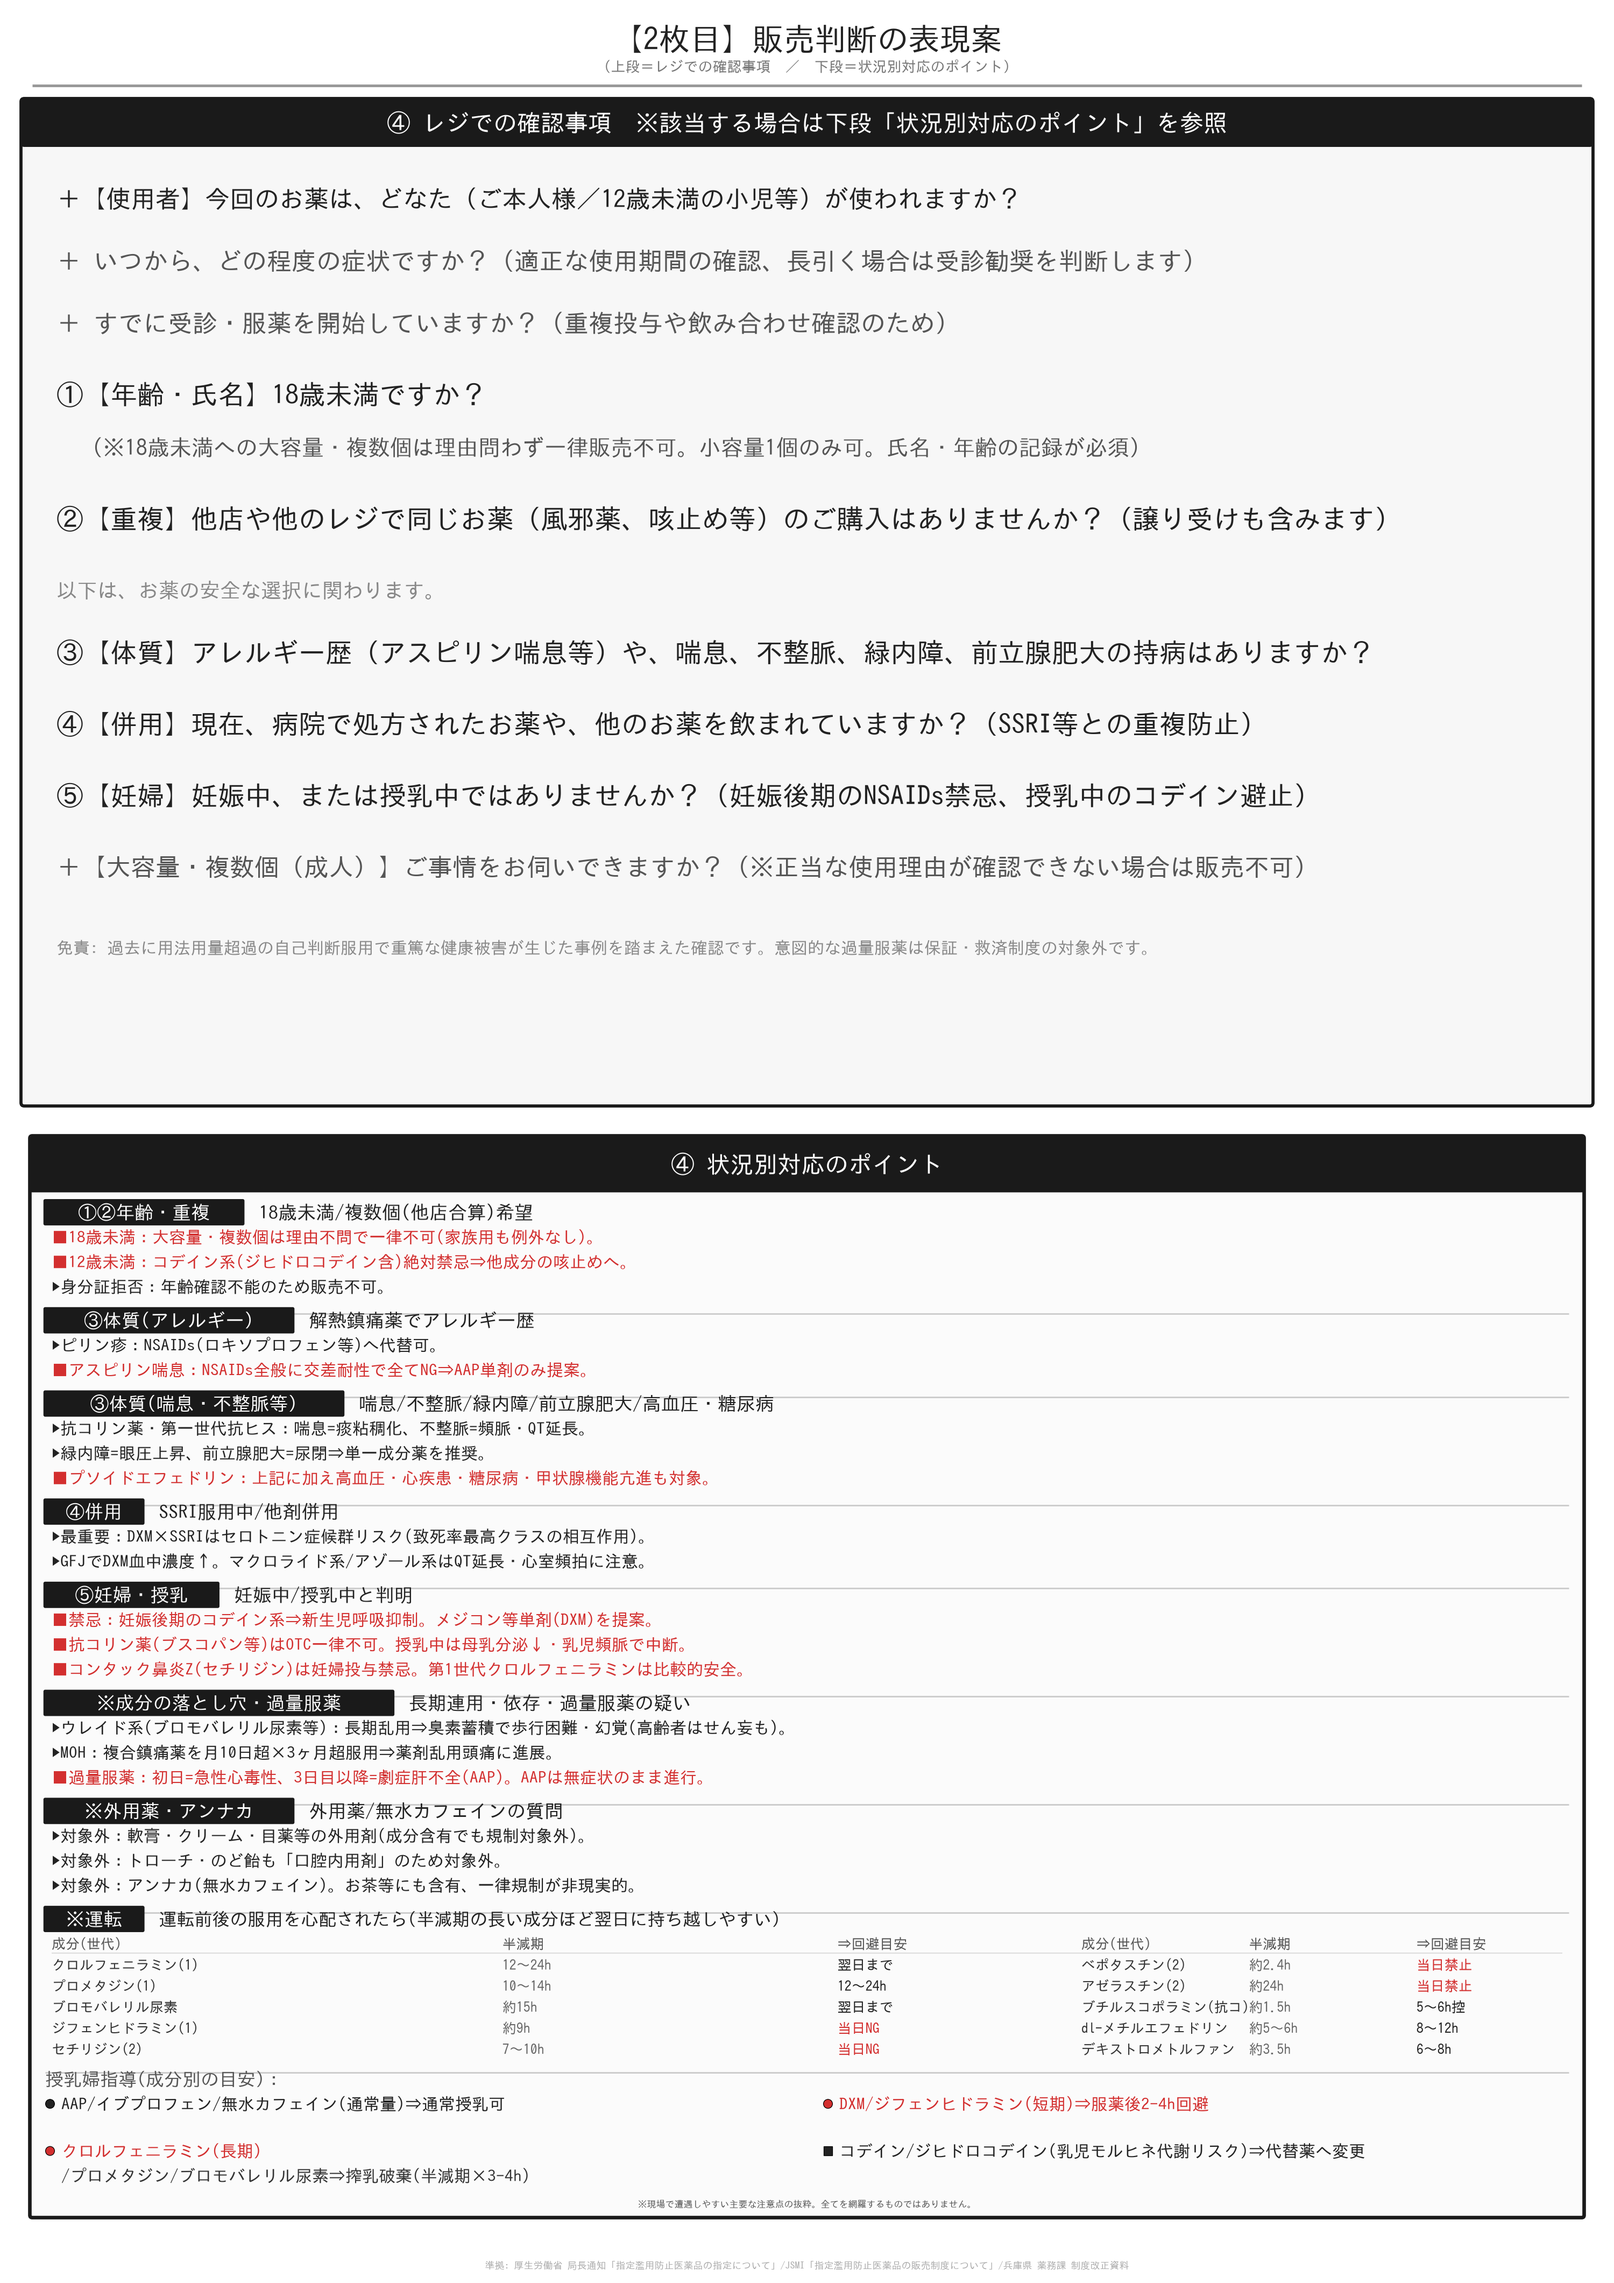
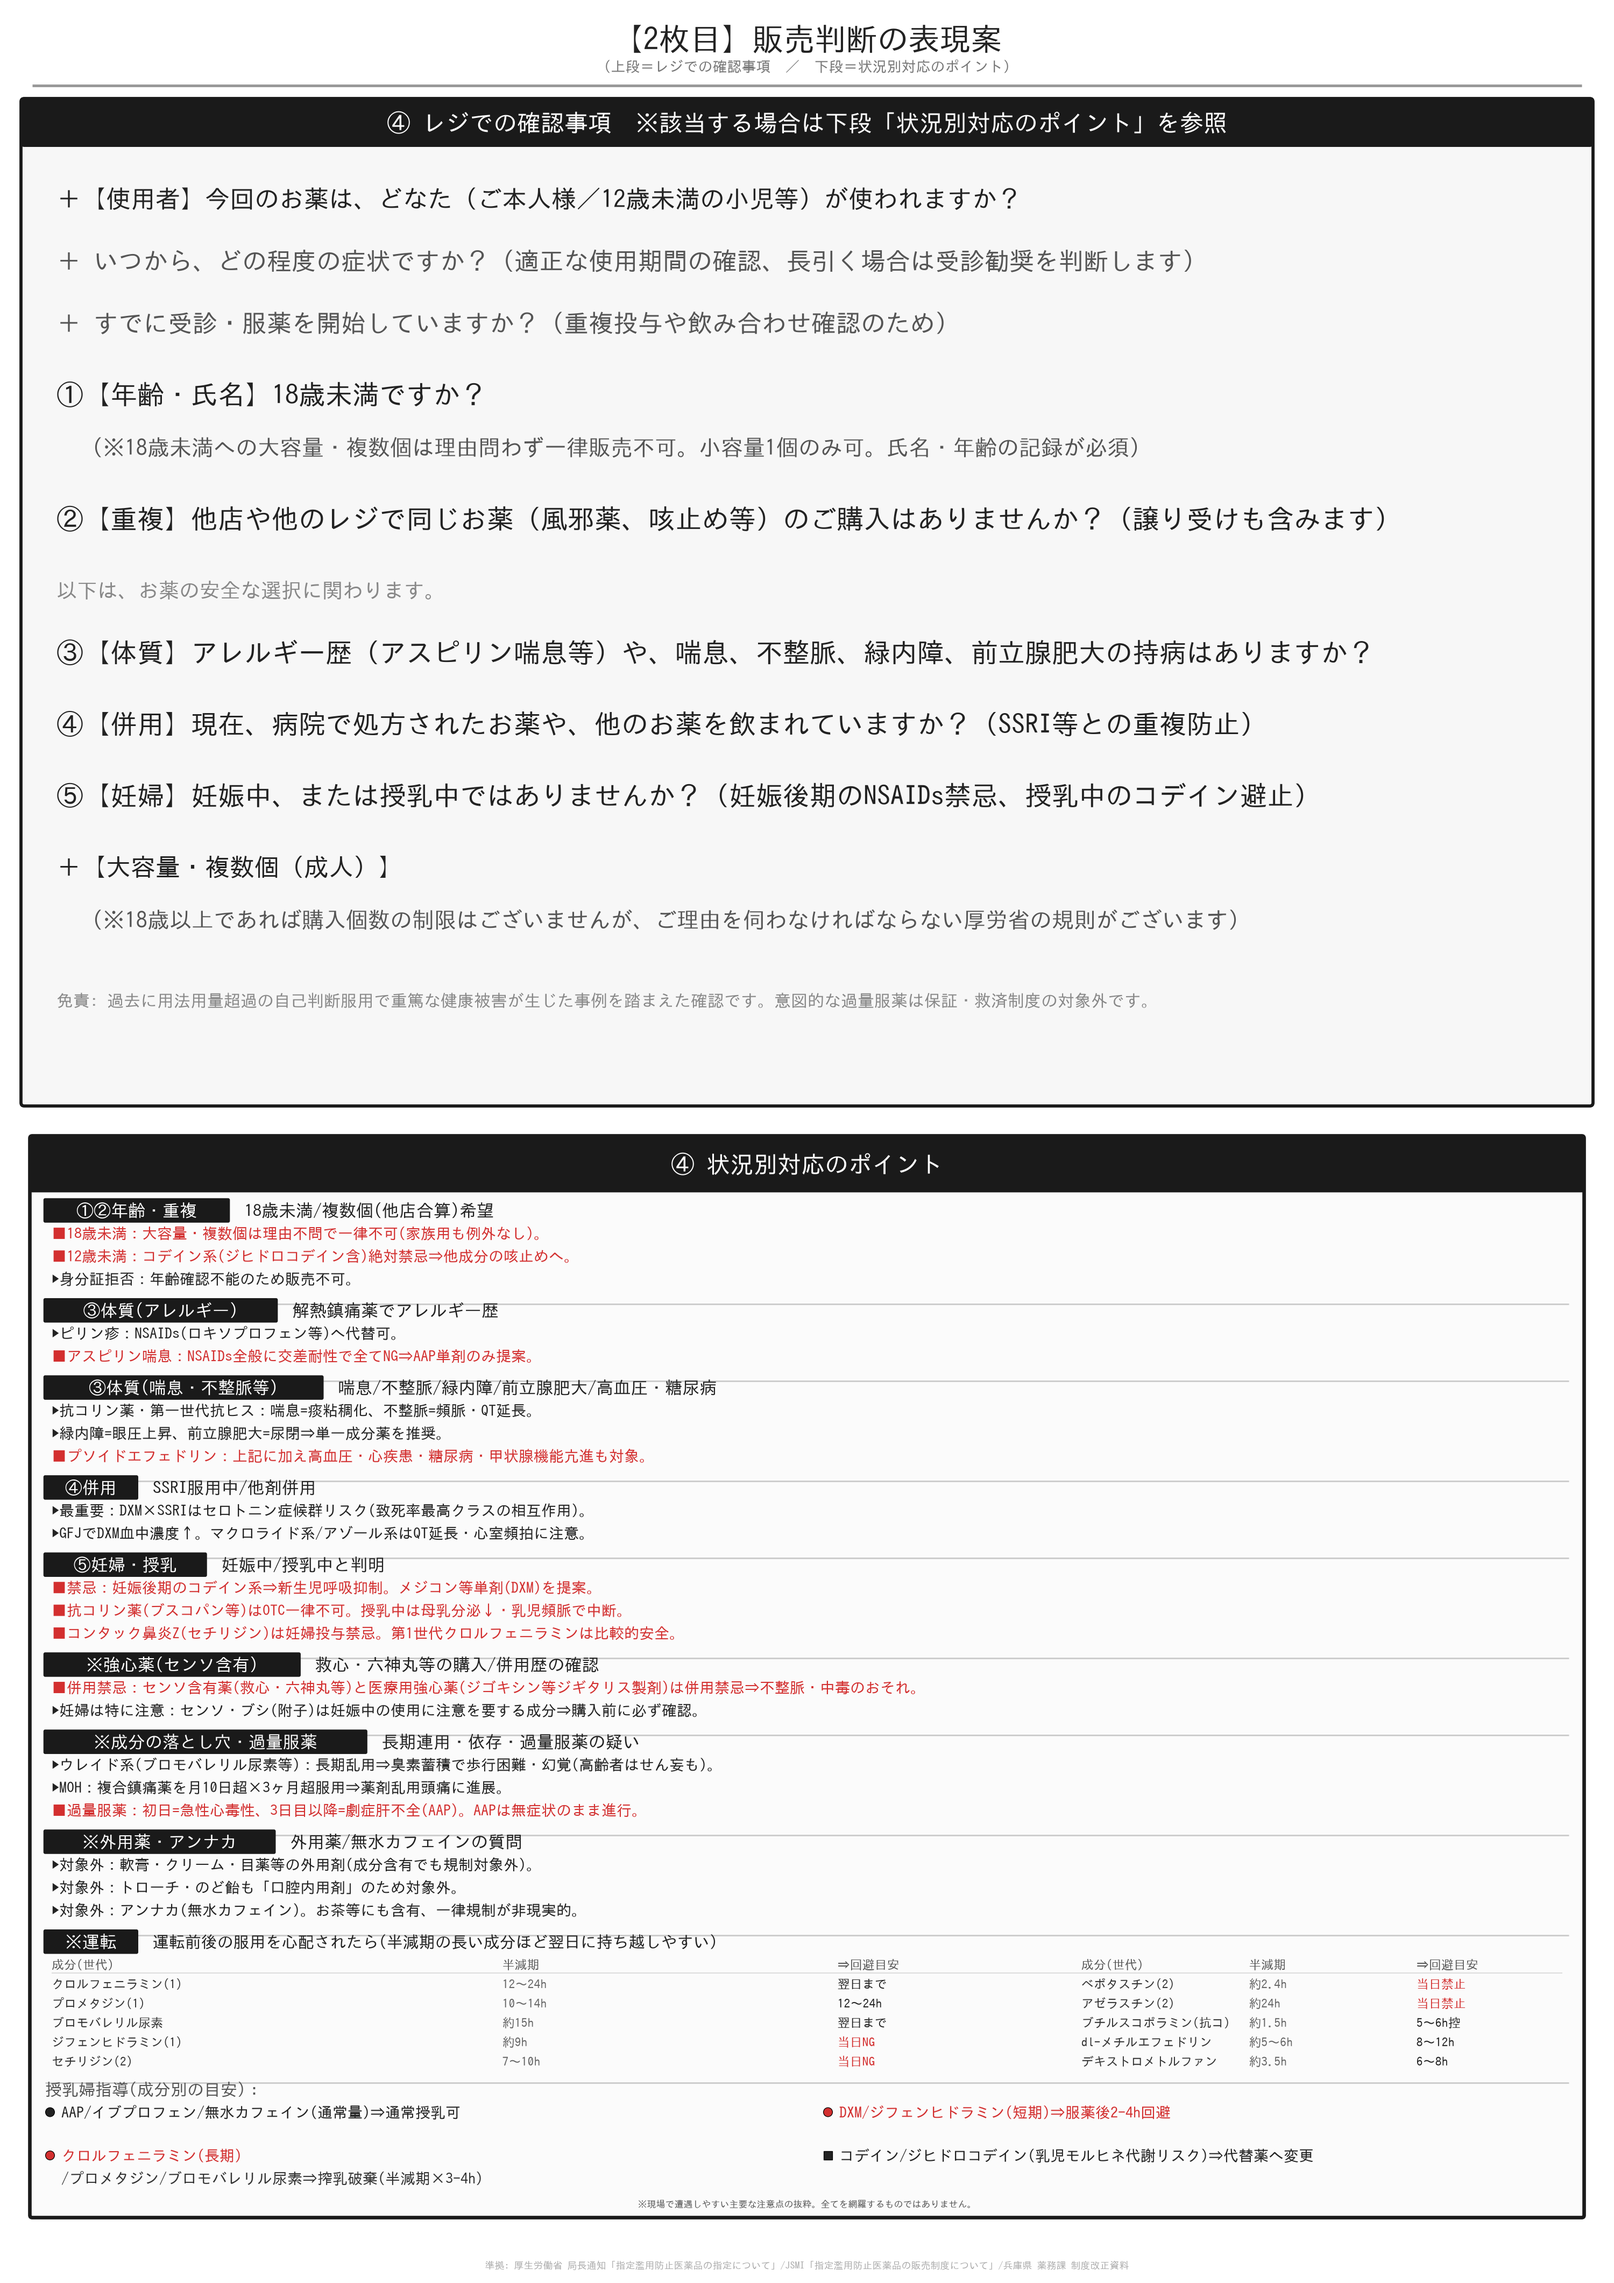
v13 3枚組を仕上げ: 1枚目レイアウト整理、2枚目文言調整+センソ併用禁忌追加、3枚目脚注丁寧語化+赤枠位置修正
1枚目:
- ①成分判別を最上部に移動し、視線誘導アイコンを大きくして「順番が前後」注記を削除
- QRコードを縦積みから横並びに変更
- ドリルの包装数量プレースホルダーを〇→△に変更
- 「下表を見ずに〜」文言と「小/大の枠は②③の〜」視線誘導を削除
- QR案内文言をKEGG_OTC検索欄の案内に変更
- package_verification.csvに包装バリエーション12行を追加、新ルルAゴールドDXα(45錠)の成分誤りを修正
- 包装セルのフォントサイズを文字数に応じて動的縮小し、列の重なりを解消

2枚目:
- 【大容量・複数個（成人）】の文言を丁寧語に変更（購入個数制限なし＋理由確認の厚労省規則である旨を明記）
- 状況別対応のポイントに「強心薬(センソ含有)」ケースを追加（救心・六神丸とジゴキシン等の併用禁忌、妊婦のセンソ・ブシ最警戒）

3枚目:
- 脚注①〜③を丁寧語に修正
- 参考①の赤枠を「年齢」欄から「大容量製品又は複数個の購入に該当する場合、その理由」欄に移動
- 脚注④（大容量・複数個の案内文言、2枚目と重複掲載）と脚注⑤（センソ・ブシ注意喚起）を追加

Claude-Session: https://claude.ai/code/session_01HtDFe8WnY993KR3Dojx73s

diff --git a/vpc_v13_page3.py b/vpc_v13_page3.py
@@ -216,8 +216,8 @@ def draw_poster1(x, y_top, w, h):
     y = panel_frame(x, y_top, w, h, "参考① 購入者への掲示例", INK,
                      subtitle="元資料：指定濫用防止医薬品をご購入時フリップ")
     img_x0, img_y1, img_w, img_h = draw_poster_image_fit(x, y, w, y - (y_top - h) - 0.3, IMG_POSTER1)
-    focus_y = img_y1 - 0.370 * img_h
-    draw_numbered_box(img_x0 + img_w * 0.145, focus_y, img_w * 0.16, img_w * 0.05, 1)
+    focus_y = img_y1 - 0.485 * img_h
+    draw_numbered_box(img_x0 + img_w * 0.42, focus_y, img_w * 0.72, img_w * 0.045, 1)
 
 
 # ==========================================================
@@ -255,14 +255,21 @@ draw_poster3_flow(Q1_X, ROW2_TOP, COL_W, ROW_H)
 Q4_X, Q4_TOP, Q4_W, Q4_H = Q2_X, ROW2_TOP, COL_W, ROW_H
 
 FOOTNOTES = [
-    (1, "参考①", "「理由確認は成人（18歳以上）のみ対象」",
-     "赤枠の「複数個・大容量の販売はできません」という文言だけでは、18歳未満・以上どちらの話か伝わりにくい。"
-     "実際に理由を確認できるのは18歳以上の購入者のみで、18歳未満は理由の如何を問わず一律販売不可。"),
-    (2, "参考②", "「大容量の例」の目印",
-     "外枠の「要確認」表示自体は小容量・大容量で共通。違いは「要」の文字にさらに囲み（丸）が付くかどうかで、"
-     "大容量側だけ「要」に追加の囲みが付くことが多い（表示は製品や年代により異なり、旧包装には記載がない場合もある）。"),
-    (3, "参考③", "「販売実施」後も申し送りが必要な場合", "元資料のフローだけを見ると「販売実施」で対応完了に見えるが、"
-     "実際には販売してもなお、購入者の様子や理由の説明状況によっては「申し送り対応の実施」（購入者の特徴・来店日時・購入商品等を帳簿等に記載）が必要になるケースがある。"),
+    (1, "参考①", "「理由確認」欄は成人（18歳以上）のみが対象です",
+     "赤枠の「大容量製品又は複数個の購入に該当する場合、その理由」は、18歳以上の購入者様にのみご確認いただく項目です。"
+     "18歳未満の方は、理由の如何を問わず一律で販売不可となりますので、あわせてご留意ください。"),
+    (2, "参考②", "「大容量」の目印について",
+     "外枠の「要確認」という表示自体は、小容量・大容量どちらの商品にも共通して付いています。違いは「要」の文字にさらに丸い囲みが付くかどうかで、"
+     "大容量側のみ追加の囲みが付いていることが多いです（表示は製品や年代により異なり、旧い包装には記載がない場合もございますので、あわせてご確認ください）。"),
+    (3, "参考③", "「販売実施」の後も、申し送りが必要な場合がございます",
+     "元資料のフローだけを拝見すると「販売実施」で対応完了のように見えますが、実際には販売後も、購入者様のご様子や理由のご説明状況によっては、"
+     "「申し送り対応の実施」（購入者様の特徴・来店日時・購入商品等を帳簿等にご記載いただくこと）が必要になる場合がございます。"),
+    (4, "共通", "【大容量・複数個（成人）】のご案内文言",
+     "18歳以上であれば購入個数の制限はございませんが、ご理由を伺わなければならない厚労省の規則がございます"
+     "（2枚目「レジでの確認事項」にも同内容を記載しております）。"),
+    (5, "追加", "センソ・ブシを含む製剤にご注意ください",
+     "救心・六神丸等に含まれる「センソ」は、ジゴキシン等の医療用強心薬（ジギタリス製剤）との併用が禁忌とされています。"
+     "また、センソ・ブシ（附子）は妊娠中の使用に特にご注意いただきたい成分ですので、ご購入前に必ずご確認ください。"),
 ]
 
 header_h4 = 2.6

diff --git a/vpc_v13_page2.py b/vpc_v13_page2.py
@@ -140,8 +140,11 @@ qy -= Q_LH * 1.15
 ax.text(COL_NAME_X + 1.5, qy, "⑤【妊婦】妊娠中、または授乳中ではありませんか？（妊娠後期のNSAIDs禁忌、授乳中のコデイン避止）",
         fontsize=Q_FS_MAIN, fontweight="bold", ha="left", va="center", color="#222222", zorder=3)
 qy -= Q_LH * 1.15
-ax.text(COL_NAME_X + 1.5, qy, "＋【大容量・複数個（成人）】ご事情をお伺いできますか？（※正当な使用理由が確認できない場合は販売不可）",
-        fontsize=Q_FS_SUB, ha="left", va="center", color=GRAY, zorder=3)
+ax.text(COL_NAME_X + 1.5, qy, "＋【大容量・複数個（成人）】",
+        fontsize=Q_FS_SUB, fontweight="bold", ha="left", va="center", color="#222222", zorder=3)
+qy -= Q_LH * 0.85
+ax.text(COL_NAME_X + 3.0, qy, "（※18歳以上であれば購入個数の制限はございませんが、ご理由を伺わなければならない厚労省の規則がございます）",
+        fontsize=Q_FS_SUB - 1.2, ha="left", va="center", color=GRAY, zorder=3)
 qy -= Q_LH * 1.3
 ax.text(COL_NAME_X + 1.5, qy, "免責: 過去に用法用量超過の自己判断服用で重篤な健康被害が生じた事例を踏まえた確認です。意図的な過量服薬は保証・救済制度の対象外です。",
         fontsize=7.4, ha="left", va="center", color=LGRAY, zorder=3)
@@ -215,6 +218,10 @@ CASES = [
         "禁忌：妊娠後期のコデイン系⇒新生児呼吸抑制。メジコン等単剤(DXM)を提案。",
         "抗コリン薬(ブスコパン等)はOTC一律不可。授乳中は母乳分泌↓・乳児頻脈で中断。",
         "コンタック鼻炎Z(セチリジン)は妊婦投与禁忌。第1世代クロルフェニラミンは比較的安全。",
+    ]),
+    ("※", "強心薬(センソ含有)", "救心・六神丸等の購入/併用歴の確認", [
+        "併用禁忌：センソ含有薬(救心・六神丸等)と医療用強心薬(ジゴキシン等ジギタリス製剤)は併用禁忌⇒不整脈・中毒のおそれ。",
+        "妊婦は特に注意：センソ・ブシ(附子)は妊娠中の使用に注意を要する成分⇒購入前に必ず確認。",
     ]),
     ("※", "成分の落とし穴・過量服薬", "長期連用・依存・過量服薬の疑い", [
         "ウレイド系(ブロモバレリル尿素等)：長期乱用⇒臭素蓄積で歩行困難・幻覚(高齢者はせん妄も)。",
